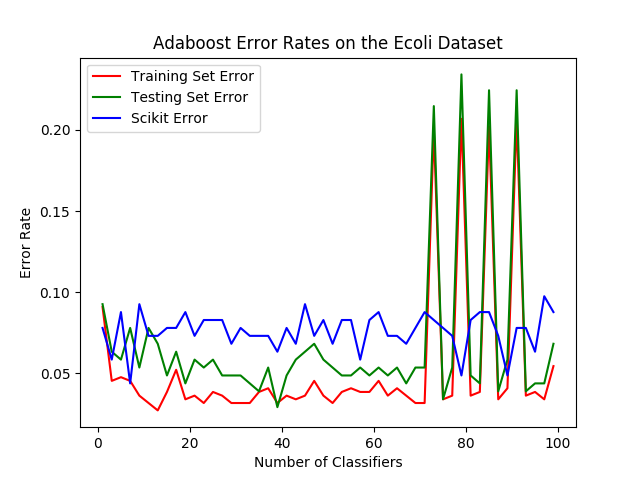
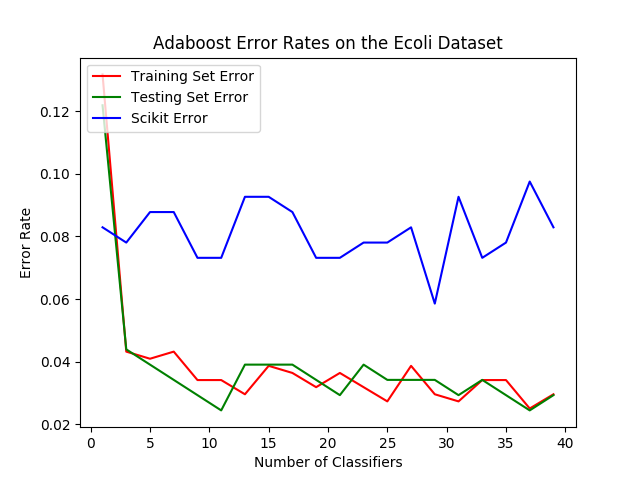
Ecoli is awful... but these Ecoli graphs are the bomb.

diff --git a/proj2/code/adaboost_test.py b/proj2/code/adaboost_test.py
@@ -25,11 +25,11 @@ from adaboost import classifier_error_rate
 
 #FILENAME = "dataset/default.csv" 
 #FILENAME = "dataset/ionosphere.dat" 
-FILENAME = "dataset/musk.dat"  
+#FILENAME = "dataset/musk.dat"  
 #FILENAME = "dataset/heart.dat"  
 #FILENAME = "dataset/spambase.dat" 
 #FILENAME = "dataset/animals.dat" 
-#FILENAME = "dataset/ecoli.dat"
+FILENAME = "dataset/ecoli.dat"
 #FILENAME = "dataset/fertility.dat"
 
 # probability of an example being in the training set 
@@ -243,7 +243,7 @@ def adaboost_avg_run(max_classes, avg_num_of_run, training_set, testing_set):
 	# print(len(train_x))	
 	train_subset_num = int(len(train_y) * 0.2) 
 
-	for cl in range(1, max_classes+1, 3):
+	for cl in range(1, max_classes+1, 2):
 		train_error = []
 		testing_error = []
 		scikit_error = []
@@ -335,9 +335,9 @@ def plot_testing_set_errors(error_list, decision_tree_avg_error, perceptron_avg_
 # preprocessing: load in the dataset and split into a training and testing set 
 #dataset = load_dataset(FILENAME) 
 #dataset =load_dataset_ionosphere(FILENAME)
-dataset =load_dataset_musk(FILENAME)
+#dataset =load_dataset_musk(FILENAME)
 #dataset =load_dataset_heart(FILENAME)
-#dataset =load_dataset_ecoli(FILENAME)
+dataset =load_dataset_ecoli(FILENAME)
 
 (training_set,testing_set) = split_dataset(dataset, PROBABILITY_TRAINING_SET)
 
@@ -433,7 +433,7 @@ print("=========")
 # split dataset only once
 (training_set,testing_set) = split_dataset(dataset, PROBABILITY_TRAINING_SET)
 # error_list = adaboost_avg_run(40, 5, training_set, testing_set)
-error_list = adaboost_avg_run(25, 5, training_set, testing_set)
+error_list = adaboost_avg_run(40, 5, training_set, testing_set)
 decision_tree_avg_error = decision_tree_avg_run(5, training_set, testing_set)
 perceptron_avg_error = perceptron_avg_run(5, training_set, testing_set)
 plot_errors(error_list)
